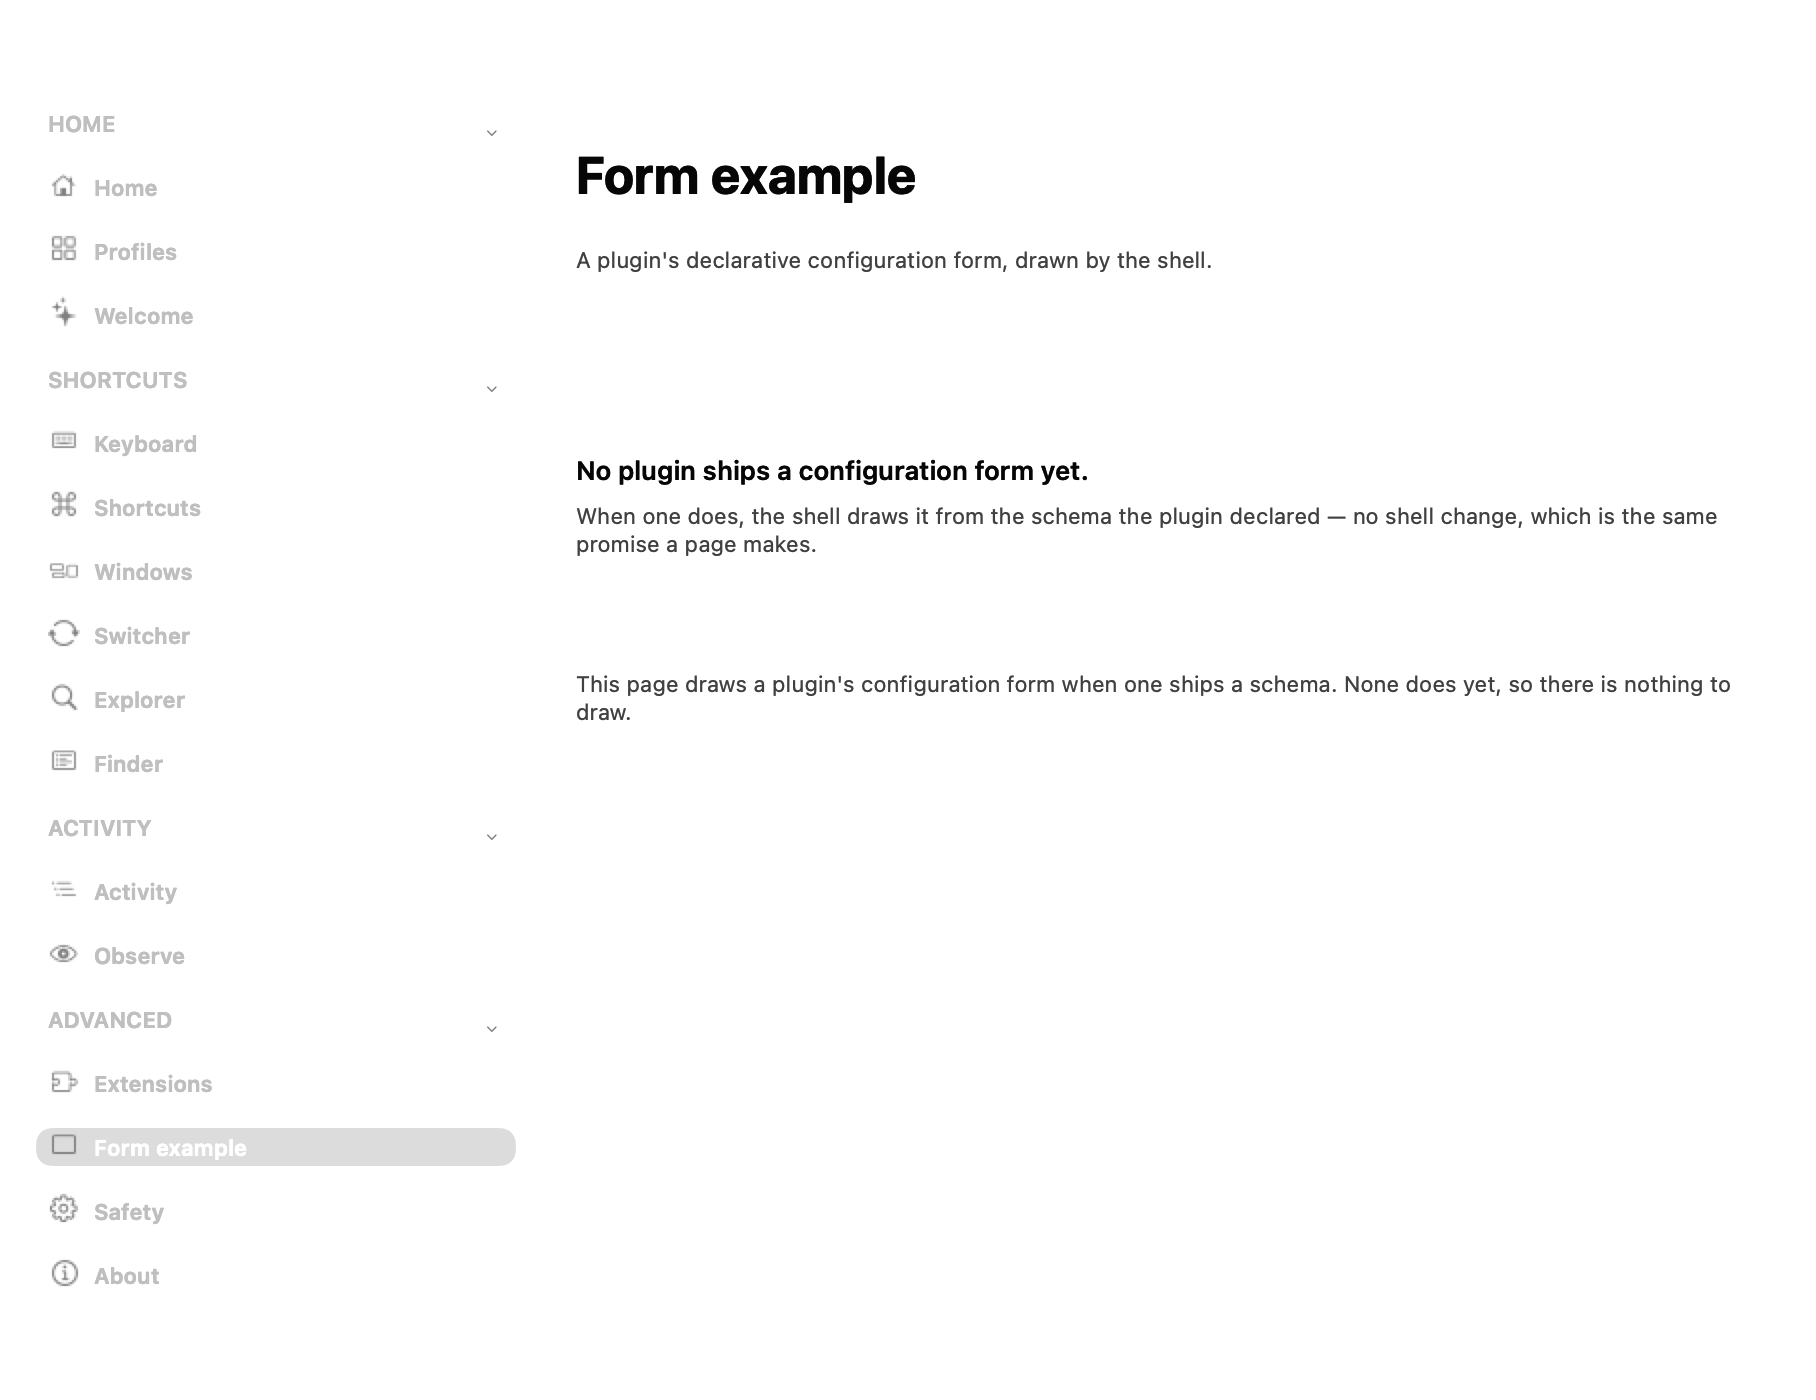
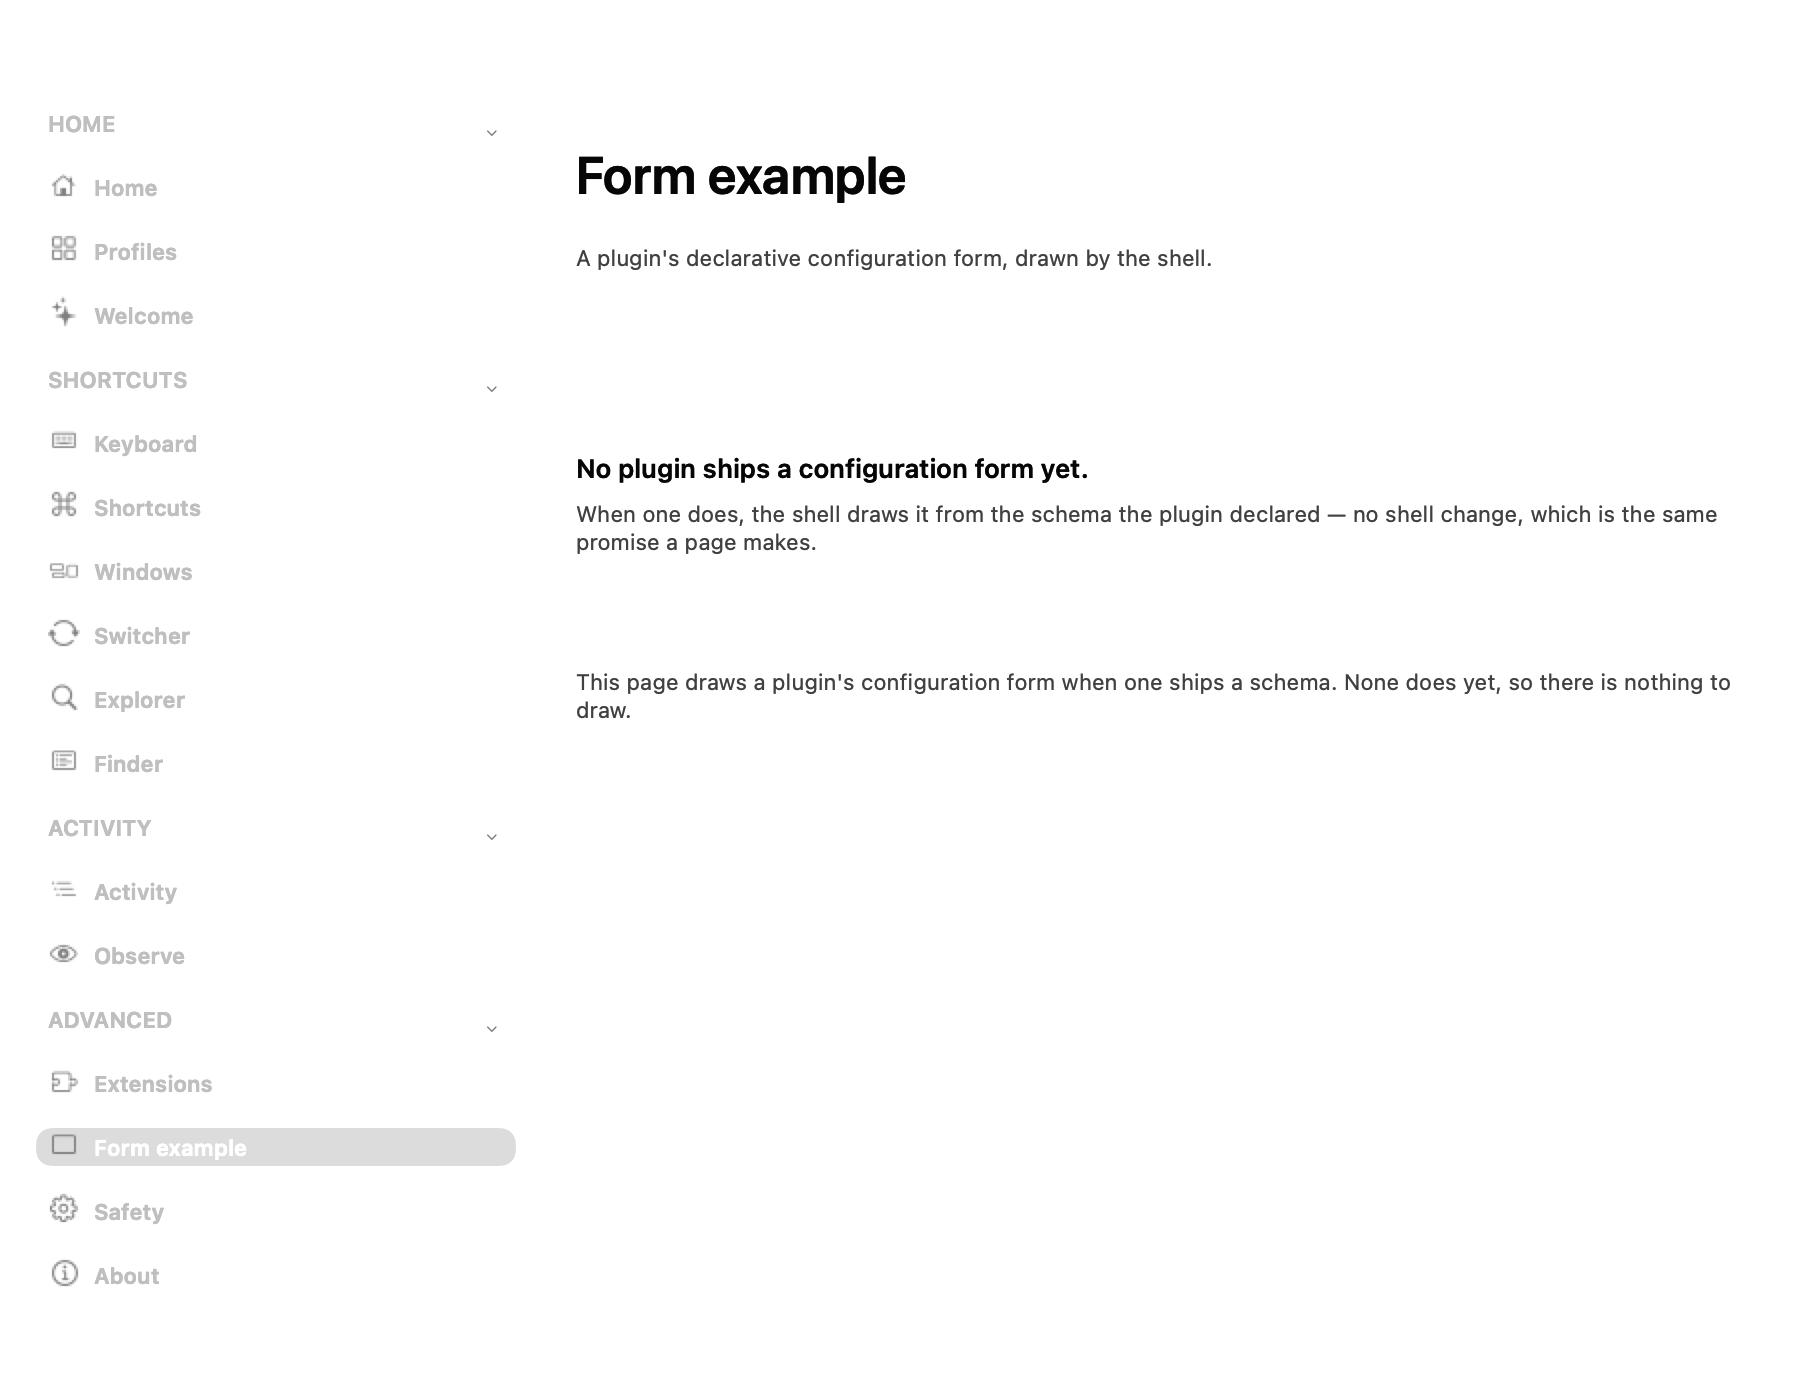
feat: the page title stops shouting, and the audit counts weights
The sixth audit check, and the two font changes it asked for.

**Weights.** The check resolves each label's weight and counts the
distinct bold ones per page. It found **every one of the fifteen pages
drawing two bold weights at more than two to one**: a 26pt page title and
an 11pt section cap. Two bold things means neither is the thing the eye
lands on.

- `pageTitle` was 26pt **bold** — the heaviest text the app draws, heavier
  than any control and heavier than the card title it was meant to
  out-weigh. A page title should dominate by size and position, which it
  already does. Now **semibold**, which is what System Settings uses.
- `cardTitle` was semibold, so with the title also semibold the pane had
  two semibold weights competing and the eye had to read both to rank
  them. Now **regular**, which is what System Settings's group labels are;
  a group reads as a group because of where it is and the space above it.
- `sectionCap` was 11pt semibold uppercase, which is a form convention.
  Now **regular** — it labels a group that the size and the spacing
  already identify, which is the same reason the cards lost their borders.

All fifteen pages now draw exactly two bold weights: the page title, and
the name of each thing in the page. That is what System Settings does — a
pane has a name and the rows have names — so the threshold is three.

**`NSFontManager.weight(of:)` is an index, not a weight.** Measured on this
[…]

diff --git a/macos/Sources/CrossOSApp/DesignSystem.swift b/macos/Sources/CrossOSApp/DesignSystem.swift
@@ -310,8 +310,18 @@ public enum Typeface {
     /// a dangerous one. The system has a weight for this; it is not bold-by-hand.
     public static var bodyStrong: NSFont { .systemFont(ofSize: NSFont.systemFontSize, weight: .semibold) }
 
-    /// A card's title.
-    public static var cardTitle: NSFont { .systemFont(ofSize: NSFont.systemFontSize + 2, weight: .semibold) }
+    /// A card's title. **Regular**, which is what System Settings uses for a
+    /// group label.
+    ///
+    /// This was semibold, and with `pageTitle` also semibold the pane had two
+    /// semibold weights competing in one hierarchy — a 26pt page title and a
+    /// 15pt card title — so the eye had to read both before it could rank
+    /// them. Regular leaves the page title as the ONLY bold-ish thing on
+    /// screen, which is what makes it read as the page's name rather than as
+    /// the largest of several headings. macOS's group labels are regular too;
+    /// a group reads as a group because of its position and the space above
+    /// it, not because its label is heavier than the rows under it.
+    public static var cardTitle: NSFont { .systemFont(ofSize: NSFont.systemFontSize + 2) }
 
     /// The page's title.
     ///
@@ -324,9 +334,18 @@ public enum Typeface {
     ///
     /// `.preferredFont(forTextStyle:)` is the VARIANT, so it tracks the user's
     /// text size rather than being a number this file owns.
+    ///
+    /// **Semibold, not bold**, and that is the weight System Settings uses for
+    /// a content title. `convert(_:toHaveTrait: .boldFontMask)` was here, and
+    /// bold at 26pt is the heaviest text the app draws — heavier than any
+    /// control, heavier than any value, heavier than the card title it is
+    /// meant to out-weigh. A page title should dominate by size and position,
+    /// which it already does; making it the boldest thing on screen as well
+    /// turns the top of the pane into a shout, and a shout at the top of a
+    /// window is what a web form looks like.
     public static var pageTitle: NSFont {
         let large = NSFont.preferredFont(forTextStyle: .largeTitle)
-        return NSFontManager.shared.convert(large, toHaveTrait: .boldFontMask)
+        return NSFont.systemFont(ofSize: large.pointSize, weight: .semibold)
     }
 
     /// A description, a hint, a detail under a label.
@@ -335,8 +354,20 @@ public enum Typeface {
     /// A cap above a group, and the one place uppercase is right: a section
     /// label is a label for a group, not a sentence, and the system has a
     /// face for it.
+    ///
+    /// **Regular weight**, where it was semibold. Together with `pageTitle`
+    /// also semibold, the pane had two bold things in it — and the audit's new
+    /// weight check put it plainly: every one of the fifteen pages drew two
+    /// bold weights, the 26pt title and this 11pt cap, at a ratio of more than
+    /// two to one. Two bold things means neither is the thing the eye lands on.
+    ///
+    /// What the cap should be doing is quietly: it labels a group the size and
+    /// the space above it already identify, which is the same reason the cards
+    /// lost their borders. macOS's group labels are regular 13pt, and the
+    /// uppercase is a legible way to make a regular label read as a label
+    /// without making it louder than the page.
     public static var sectionCap: NSFont {
-        .systemFont(ofSize: NSFont.smallSystemFontSize, weight: .semibold)
+        .systemFont(ofSize: NSFont.smallSystemFontSize)
     }
 
     /// Machine text — a version, a daemon's error string, a log line.

diff --git a/macos/Sources/CrossOSApp/Audit.swift b/macos/Sources/CrossOSApp/Audit.swift
@@ -341,6 +341,55 @@ enum Audit {
         )]
     }
 
+    /// How many DISTINCT weights the page's text is drawn in.
+    ///
+    /// The sixth check. Weight is the loudest thing in a type system and the
+    /// easiest to spend: a 26pt bold page title and a 15pt semibold card title
+    /// are both "bold-ish", so a reader has to read both before ranking them,
+    /// and the pane ends up with no single loudest thing in it.
+    ///
+    /// One page title per pane should be the only bold text on that pane. This
+    /// counts distinct non-regular weights, so a page drawing a page title, a
+    /// card title and a section cap all at the same weight reports two and is
+    /// worth a look.
+    /// `NSFontManager.weight(of:)` for `.regular`, measured — see below.
+    static let regularWeight = 5
+
+    static func weightAudit(root: NSView, page: String) -> [Finding] {
+        var boldish: Set<String> = []
+        var where_: [String: Int] = [:]
+        for view in collect(root) {
+            guard let field = view as? NSTextField, !field.stringValue.isEmpty,
+                  let font = field.font else { continue }
+            // `NSFontManager.weight(of:)` is an INDEX into the system's weight
+            // list, not an `NSFont.Weight`: measured on this machine it gives
+            // **5 for regular, 8 for semibold, 9 for bold**. The first version
+            // of this check treated anything at or above 3 as bold and so
+            // counted every ordinary row label in the app — it reported three
+            // to four bold weights a page, and what it had actually found was
+            // two. So the threshold is above regular, and the face name is
+            // what gets printed, because a bare index is not readable.
+            let symbolic = NSFontManager.shared.weight(of: font)
+            guard symbolic > Self.regularWeight else { continue }
+            let face = font.fontDescriptor.object(forKey: .face) as? String ?? "w\(symbolic)"
+            let key = "\(Int(font.pointSize))pt \(face)"
+            boldish.insert(key)
+            where_[key, default: 0] += 1
+        }
+        // Two is the right number, not one. The page title is bold and the
+        // NAME of each thing in the page is bold — a plugin's name, a list's
+        // title — and that is exactly what System Settings does: the pane has
+        // a name and the rows have names. Three is where it breaks, because
+        // then the reader has three things to rank and no way to know which.
+        guard boldish.count > 2 else { return [] }
+        return [Finding(
+            severity: .note, page: "weight",
+            what: "\(page) draws \(boldish.count) bold weights: \(boldish.sorted().joined(separator: ", "))",
+            detail: "each is emphasised, so none of them is the thing the eye should land on first. A pane "
+                  + "with one bold weight has one loudest thing in it."
+        )]
+    }
+
     static func fitAudit(root: NSView, page: String) -> [Finding] {
         var findings: [Finding] = []
         let leaves = collect(root)

diff --git a/macos/Sources/CrossOSApp/App.swift b/macos/Sources/CrossOSApp/App.swift
@@ -673,6 +673,7 @@ final class AppDelegate: NSObject, NSApplicationDelegate {
             guard let pageView = shell.pageController?.view else { continue }
             let found = Audit.fitAudit(root: pageView, page: page.id)
                 + Audit.fillAudit(root: pageView, page: page.id)
+                + Audit.weightAudit(root: pageView, page: page.id)
                 + Audit.duplicationAudit(root: pageView)
             findings += found
             // Per page, immediately. A hang on page fifteen must not cost
